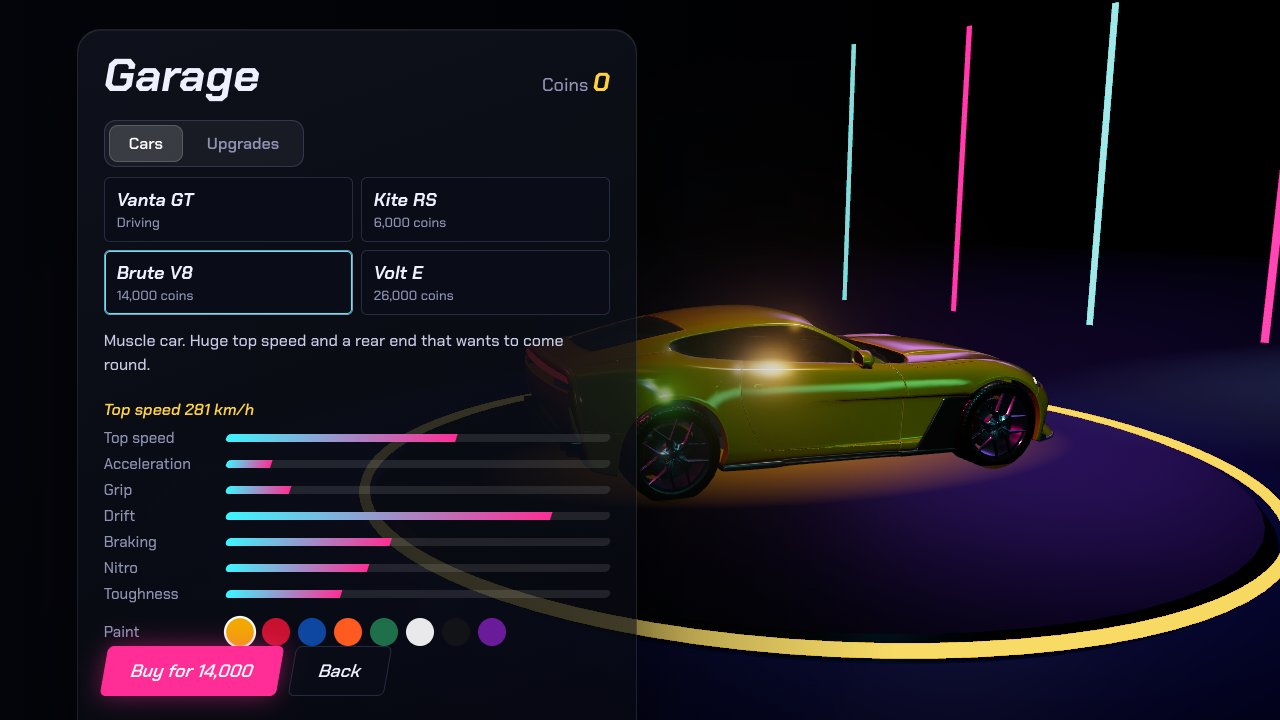
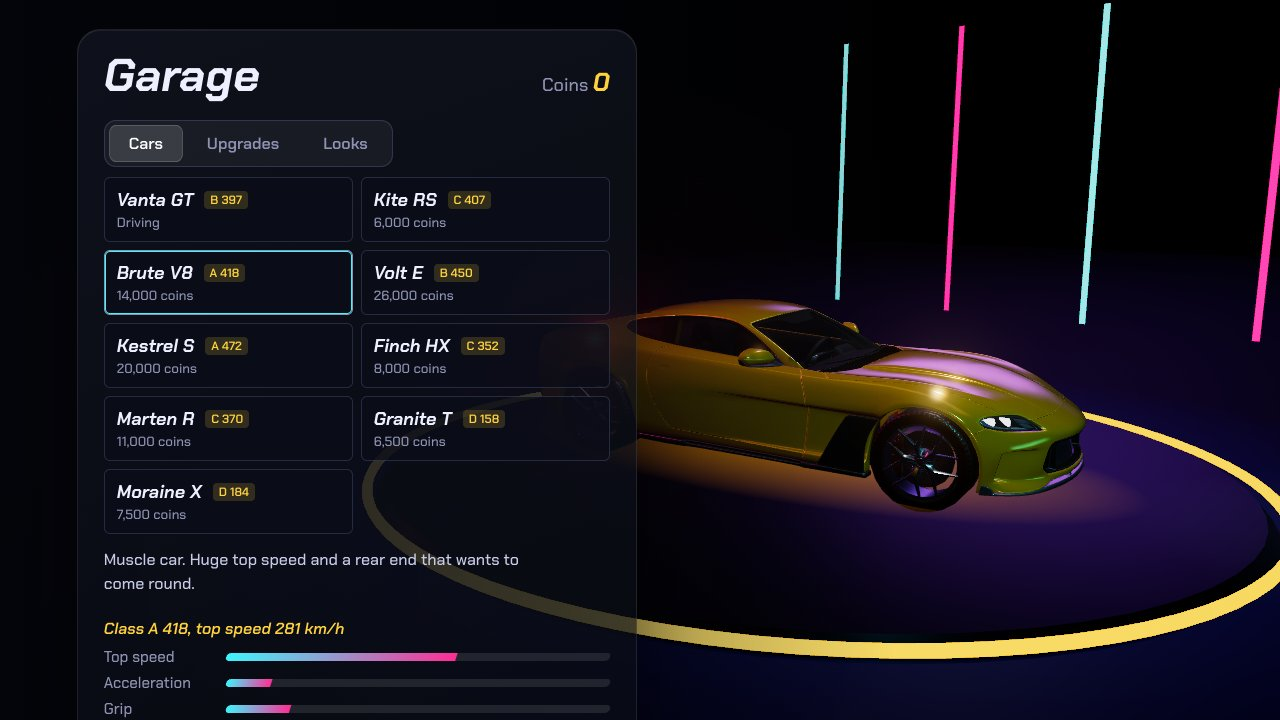
Two new guides, and the site caught up with today's updates (#33)
* Two new guides, and the site caught up with today's updates

New pages, aimed at searches the game now answers:
- leaderboards.html: where the time-trial boards are, how the server
  checks a lap before it counts, racing a ghost from a board, how long
  ghosts are kept, and ways to get faster.
- customise.html: every look with its price, what the wrap painter
  does, photo mode, and the four tuning sliders and what they need.
cars.html's tuning and looks sections now give a summary and link
there. Both pages are in the nav on every guide page, the updates page,
the menu's guide links and the sitemap.

how-to-play.html explains Auto, High and Low graphics. The time trial on
modes.html points to the boards. The about page lists the leaderboards,
ghosts, nine cars, tuning, looks, photo mode and the daily challenge,
and its multiplayer answer mentions ghosts. The JSON-LD description now
names the crews, playing the cop, nine cars with tuning and
customisation, and checked leaderboards with ghosts. The README gains
repairs, slipstream, kerb rumble and Auto graphics.

The garage picture is retaken with the nine cars, their classes and
ratings, and there is a new one of the Looks tab with a wrap layer.

* Friends and challenges on the guides, the about page and in the README

#28 landed while this was open. The leaderboards page now explains
friends, the rivals feed and challenges, and the fuller rule for which
[…]

diff --git a/public/customise.html b/public/customise.html
@@ -1,0 +1,104 @@
+<!doctype html>
+<html lang="en">
+  <head>
+    <meta charset="utf-8" />
+    <meta name="viewport" content="width=device-width, initial-scale=1" />
+    <title>Car customisation and tuning in Skidline: wraps, wheels, liveries and sliders</title>
+    <meta name="description" content="Customise your car in Skidline, a free browser racing game: paint and finishes, underglow, liveries, wheels, ride height, tint, spoilers, a free wrap painter, a photo mode and four tuning sliders, with every price in coins." />
+    <link rel="canonical" href="https://skidline.edward7780.com/customise.html" />
+    <meta property="og:type" content="article" />
+    <meta property="og:site_name" content="Skidline" />
+    <meta property="og:url" content="https://skidline.edward7780.com/customise.html" />
+    <meta property="og:title" content="Car customisation and tuning in Skidline" />
+    <meta property="og:description" content="Customise your car in Skidline, a free browser racing game: paint and finishes, underglow, liveries, wheels, ride height, tint, spoilers, a free wrap painter, a photo mode and four tuning sliders, with every price in coins." />
+    <meta property="og:image" content="https://skidline.edward7780.com/og.jpg" />
+    <meta name="twitter:card" content="summary_large_image" />
+    <meta name="theme-color" content="#07080e" />
+    <link rel="icon" type="image/svg+xml" href="/favicon.svg" />
+    <link rel="stylesheet" href="/pages.css" />
+  </head>
+  <body>
+    <header class="top">
+      <nav aria-label="Site">
+        <a class="brand" href="/">Skid<span>line</span></a>
+        <a href="/how-to-play.html">How to play</a>
+        <a href="/cars.html">Cars</a>
+        <a href="/customise.html" aria-current="page">Customise</a>
+        <a href="/modes.html">Modes</a>
+        <a href="/leaderboards.html">Leaderboards</a>
+        <a href="/drift-guide.html">Drifting</a>
+        <a href="/police-chase.html">Police chases</a>
+        <a href="/coins.html">Coins</a>
+        <a href="/updates.html">Updates</a>
+        <a href="/about.html">About</a>
+        <a class="go" href="/">Play free</a>
+      </nav>
+    </header>
+    <main>
+      <h1>Car customisation and tuning in Skidline</h1>
+      <p class="lead">Every car in Skidline can be painted, dressed up and tuned in the garage. Paint colours and the wrap painter are free. Finishes, underglow, liveries, wheels, ride height, tint and spoilers cost coins, and each is bought once and then works on every car you own. The tuning sliders are free too, and change how the car drives.</p>
+      <a class="play" href="/">Open the garage</a>
+      <figure>
+        <img src="/screens/looks.jpg" width="960" height="540" alt="The garage's Looks tab: wheels, ride height, window tint and spoiler options with their prices, and a wrap layer with its colours and sliders, laid on the side of the car on the turntable" />
+        <figcaption>The Looks tab, with a stripe from the wrap painter on the car.</figcaption>
+      </figure>
+
+      <h2 id="looks">Looks</h2>
+      <p>Open the Garage and switch to the Looks tab. You can try anything on the car on the turntable before you buy it, and a look you have bought is free on every other car you own. None of the looks changes the physics: a spoiler or lowered ride is for the eye only.</p>
+      <div class="table">
+        <table>
+          <thead><tr><th scope="col">Look</th><th scope="col">Choices and their price in coins</th></tr></thead>
+          <tbody>
+            <tr><th scope="row">Paint</th><td>Eight colours, all free</td></tr>
+            <tr><th scope="row">Finish</th><td>Gloss free; matte 1,500; pearl 3,000; chrome 6,000</td></tr>
+            <tr><th scope="row">Underglow</th><td>Matching the paint, or off, free; cyan, pink, green, orange or white, 1,500 each</td></tr>
+            <tr><th scope="row">Livery</th><td>Twin stripes 2,000; centre stripe 2,000; side flash 2,500; chequer band 2,500; race number 3,000</td></tr>
+            <tr><th scope="row">Wheels</th><td>Split five 2,000; mesh 2,500; turbine 2,500; deep dish 3,000</td></tr>
+            <tr><th scope="row">Ride height</th><td>Lowered 1,000; slammed 2,000</td></tr>
+            <tr><th scope="row">Window tint</th><td>Dark 800; limo 1,500</td></tr>
+            <tr><th scope="row">Spoiler</th><td>Ducktail lip 1,500; GT wing 3,500</td></tr>
+          </tbody>
+        </table>
+      </div>
+      <p>A livery comes in white, black, red, yellow or cyan, and you can change its colour and the race number at any time for free. Your car's number plates carry your username when you are signed in. New wheels replace the whole wheel, tyre included, at the size of the one they replace. Tint darkens only the windows, so the headlights stay clear.</p>
+
+      <h2 id="wrap">The wrap painter</h2>
+      <p>At the bottom of the Looks tab is the wrap painter, which costs nothing. A wrap is built from up to six layers, drawn in order on top of the livery. For each layer you pick:</p>
+      <ul>
+        <li>a shape: a stripe, a circle, a star, a chevron, or your own text of up to 12 characters;</li>
+        <li>where it goes: both sides, the left or right side only, the bonnet or the roof;</li>
+        <li>one of nine colours;</li>
+        <li>its size, where it sits along the car and how high (or across the top, on the bonnet and roof), and a turn of up to 45 degrees either way.</li>
+      </ul>
+      <p>The sliders show the change on the car as you move them, and letting go keeps it. The wrap is saved with that car, and goes with your save to every device if you are signed in.</p>
+
+      <h2 id="photo">Photo mode</h2>
+      <p>The garage's Photo button hides the menu and stops the turntable. Drag to turn the camera round your car, and zoom with the mouse wheel or a pinch. Save picture downloads a PNG of the view with your car's name and the game's in a corner. Escape or Done brings the garage back.</p>
+
+      <h2 id="tuning">Tuning sliders</h2>
+      <p>The Upgrades tab has four sliders under the eight upgrade parts. They are free to move on any car you own, they are kept with that car, and each stays within a small range, so a setup changes how a car feels without turning it into another car. Moving a slider shows its effect on the car's bars; letting go keeps it, and Reset tuning puts them all back in the middle.</p>
+      <div class="table">
+        <table>
+          <thead><tr><th scope="col">Slider</th><th scope="col">Opens with</th><th scope="col">What it does</th></tr></thead>
+          <tbody>
+            <tr><th scope="row">Gearing</th><td>A gearbox stage</td><td>Shorter gears pull up to 8% harder; longer ones add up to 4% to the top speed. You trade one for the other.</td></tr>
+            <tr><th scope="row">Brake balance</th><td>A brakes stage</td><td>Toward the rear the car swings into a drift more easily and stops a little later; toward the front it stays planted.</td></tr>
+            <tr><th scope="row">Camber</th><td>A suspension stage</td><td>Down to −3°, the car corners up to 5% harder but brakes up to 5% worse in a straight line.</td></tr>
+            <tr><th scope="row">Steering lock</th><td>From the start</td><td>More lock turns up to 10% tighter and quicker, but makes the car twitchier.</td></tr>
+          </tbody>
+        </table>
+      </div>
+      <p>Tuning counts on the leaderboards: a time-trial lap is checked with the car's upgrades and tuning as you drove it. More on the <a href="/leaderboards.html">leaderboards page</a>.</p>
+
+      <h2 id="more">More in the garage</h2>
+      <p>The upgrade parts themselves (engine, gearbox, nitro, tyres, brakes, suspension, weight and armour, three stages each), every car's top speed with each engine stage, and the S to D classes are on the <a href="/cars.html">cars page</a>. Coins for all of it come from every race; the <a href="/coins.html">coins page</a> lists what pays.</p>
+      <figure>
+        <img src="/screens/garage.jpg" width="960" height="540" loading="lazy" alt="The garage's Cars tab: the nine cars with their class and rating, and the Brute V8 on a turntable under neon" />
+      </figure>
+
+      <footer>
+        <a href="/">Play Skidline</a> · <a href="/about.html">About</a> · <a href="/privacy.html">Privacy</a> · <a href="/terms.html">Terms</a> · © 2026 Ravi Kumar Gupta. All rights reserved.
+      </footer>
+    </main>
+  </body>
+</html>

diff --git a/public/leaderboards.html b/public/leaderboards.html
@@ -1,0 +1,77 @@
+<!doctype html>
+<html lang="en">
+  <head>
+    <meta charset="utf-8" />
+    <meta name="viewport" content="width=device-width, initial-scale=1" />
+    <title>Time trial leaderboards and ghost racing in Skidline, a free browser racing game</title>
+    <meta name="description" content="How Skidline's time-trial leaderboards work: a board for every track, laps checked by the server before they count, racing other drivers' ghosts in your browser, and friends and challenges." />
+    <link rel="canonical" href="https://skidline.edward7780.com/leaderboards.html" />
+    <meta property="og:type" content="article" />
+    <meta property="og:site_name" content="Skidline" />
+    <meta property="og:url" content="https://skidline.edward7780.com/leaderboards.html" />
+    <meta property="og:title" content="Time trial leaderboards and ghost racing in Skidline" />
+    <meta property="og:description" content="How Skidline's time-trial leaderboards work: a board for every track, laps checked by the server before they count, racing other drivers' ghosts in your browser, and friends and challenges." />
+    <meta property="og:image" content="https://skidline.edward7780.com/og.jpg" />
+    <meta name="twitter:card" content="summary_large_image" />
+    <meta name="theme-color" content="#07080e" />
+    <link rel="icon" type="image/svg+xml" href="/favicon.svg" />
+    <link rel="stylesheet" href="/pages.css" />
+  </head>
+  <body>
+    <header class="top">
+      <nav aria-label="Site">
+        <a class="brand" href="/">Skid<span>line</span></a>
+        <a href="/how-to-play.html">How to play</a>
+        <a href="/cars.html">Cars</a>
+        <a href="/customise.html">Customise</a>
+        <a href="/modes.html">Modes</a>
+        <a href="/leaderboards.html" aria-current="page">Leaderboards</a>
+        <a href="/drift-guide.html">Drifting</a>
+        <a href="/police-chase.html">Police chases</a>
+        <a href="/coins.html">Coins</a>
+        <a href="/updates.html">Updates</a>
+        <a href="/about.html">About</a>
+        <a class="go" href="/">Play free</a>
+      </nav>
+    </header>
+    <main>
+      <h1>Time trial leaderboards and ghost racing</h1>
+      <p class="lead">Every track in Skidline has a leaderboard of the fastest time-trial laps. A lap only goes on it after the game's server has driven it again itself, so the times are real. Laps on a board can be raced as ghosts, right in your browser, and friends can send each other laps to beat.</p>
+      <a class="play" href="/">Set a lap</a>
+      <figure>
+        <img src="/screens/day.jpg" width="960" height="540" alt="A gold hypercar leading rivals along the mountain road by day, between steel guard rails" />
+        <figcaption>Time trials run on the same generated tracks as every other event.</figcaption>
+      </figure>
+
+      <h2 id="boards">Where the boards are</h2>
+      <p>The menu has a Fastest laps card with two boards: today's track, which is new every day and the same for every player, and this week's track, new every Monday (UTC). Each shows the top ten, how many drivers have set a lap, and your own place if you are further down. After any time trial, the results screen shows the board for that track, so random tracks and the career's time trial have boards too.</p>
+      <p>To set a lap, pick Time trial on the Quick race screen and choose the track. You drive alone against a ghost of your own best lap. Each board keeps your best lap on that track; a slower one leaves it as it was.</p>
+
+      <h2 id="checked">How a lap is checked</h2>
+      <p>While you drive a time trial, the game writes down what you pressed on every step of the physics, 120 a second, along with your car, its upgrades and tuning, and any damage it started with. When you finish signed in, it sends that to the server. The server starts the same track from the grid and drives it again with your inputs, through the same simulation as the game. The lap it times itself is the one that goes on the board.</p>
+      <p>Browsers can differ in the last digit of the maths the physics uses, so the server accepts a lap if its own time is within a tenth of a second, or 1% of the lap, of the time you saw. A lap it can't match isn't counted, and the results screen says why. You can race signed out, but only laps by signed-in players with a username go on the boards.</p>
+      <p>When the handling changes in an update, the boards start again empty, since a lap from the old physics wouldn't be a fair comparison.</p>
+
+      <h2 id="ghosts">Racing a ghost</h2>
+      <p>A lap on a board with a Race button next to it can be raced as a ghost. Press it and the game downloads that driver's lap, drives it again in your browser with the same replay the server used, and starts a time trial on that track with their car on the road beside you, drawn see-through in its own shape. The ghost row on the race screen shows their time and name. Your own best lap on the track still saves when you beat your own time.</p>
+      <p>Ghosts take room, so the game keeps them for the laps people are most likely to race: those in a board's top ten, laps by a driver whom someone with a lap on the same track has added as a friend, and laps in a challenge. A daily track's ghosts go after 7 days and a weekly track's after 5 weeks. The times stay on the boards; only the Race button goes.</p>
+
+      <h2 id="friends">Friends and challenges</h2>
+      <p>Signed in, open Friends from the menu and add drivers by their username. Adding someone doesn't need their yes, but they see that you added them, so they can add you back. When a friend's lap beats yours on a board, the menu's card shows it under Rivals for 14 days, with a button to race their ghost or, if it isn't kept, their track.</p>
+      <p>Once two of you have added each other, you can challenge one another. After a checked time-trial lap, the results screen has Challenge a friend: pick one and send them that track with your best time. It waits on their Friends screen with Race and Dismiss, until they dismiss it or for 30 days. You can send up to 30 challenges a day. The <a href="/privacy.html">privacy page</a> says what is stored.</p>
+
+      <h2 id="faster">Getting faster</h2>
+      <ul>
+        <li>Start every lap well: put the throttle down in the last 0.45 seconds before the green light for a <a href="/how-to-play.html#start">perfect start</a> and 30% more nitro.</li>
+        <li>Drift through slow corners. A held slide <a href="/drift-guide.html#boost">charges a boost</a> and fills the nitro tank.</li>
+        <li>Race the ghost of the lap just above yours, and watch where it brakes and turns in.</li>
+        <li>Try the <a href="/customise.html#tuning">tuning sliders</a>: longer gearing for a track with long straights, more steering lock for a twisty one.</li>
+        <li>Pick the right car. The <a href="/cars.html">cars page</a> lists every car's top speed and class.</li>
+      </ul>
+
+      <footer>
+        <a href="/">Play Skidline</a> · <a href="/about.html">About</a> · <a href="/privacy.html">Privacy</a> · <a href="/terms.html">Terms</a> · © 2026 Ravi Kumar Gupta. All rights reserved.
+      </footer>
+    </main>
+  </body>
+</html>

diff --git a/public/cars.html b/public/cars.html
@@ -23,7 +23,9 @@
         <a class="brand" href="/">Skid<span>line</span></a>
         <a href="/how-to-play.html">How to play</a>
         <a href="/cars.html" aria-current="page">Cars</a>
+        <a href="/customise.html">Customise</a>
         <a href="/modes.html">Modes</a>
+        <a href="/leaderboards.html">Leaderboards</a>
         <a href="/drift-guide.html">Drifting</a>
         <a href="/police-chase.html">Police chases</a>
         <a href="/coins.html">Coins</a>
@@ -36,7 +38,7 @@
       <h1>Cars and upgrades in Skidline</h1>
       <p class="lead">There are nine cars, each with its own handling and engine sound. You start with the Vanta GT and buy the other eight with coins from races. Every car takes eight upgrade parts with three stages each, and a stage changes the numbers the physics runs on, so an upgraded car really is quicker on the road.</p>
       <figure>
-        <img src="/screens/garage.jpg" width="960" height="540" alt="The garage with the Brute V8 on a turntable, its stat bars and the paint colours" />
+        <img src="/screens/garage.jpg" width="960" height="540" alt="The garage's Cars tab: the nine cars with their class and rating, and the Brute V8 on a turntable under neon, class A 418 with a top speed of 281 km/h" />
         <figcaption>The garage, where you buy cars, pick a paint colour and fit upgrades.</figcaption>
       </figure>
 
@@ -100,20 +102,14 @@
       <p>Coins come from every race. The <a href="/coins.html">coins page</a> lists what pays and how much.</p>
 
       <h2 id="tuning">Tuning</h2>
-      <p>Under the parts on the Upgrades tab are four sliders, free to move on a car you own and kept with that car. Each stays within a small range, so a setup changes how the car feels without turning it into a different car. Let go of a slider to keep it; Reset tuning puts them all back in the middle.</p>
-      <ul>
-        <li>Gearing, once the car has a gearbox stage: shorter gears pull up to 8% harder, longer ones add up to 4% to the top speed, and you trade one for the other.</li>
-        <li>Brake balance, once it has a brakes stage: toward the rear the car swings into a drift more easily and stops a little later; toward the front it stays planted.</li>
-        <li>Camber, once it has a suspension stage: down to −3°, the car corners up to 5% harder but brakes up to 5% worse in a straight line.</li>
-        <li>Steering lock, from the start: more lock turns up to 10% tighter and quicker, but the car gets twitchier.</li>
-      </ul>
+      <p>Under the parts on the Upgrades tab are four free sliders, kept with each car: gearing (pull against top speed), brake balance, camber and steering lock. Gearing, brake balance and camber open with a gearbox, brakes or suspension stage. What each one does, and by how much, is on the <a href="/customise.html#tuning">customisation page</a>.</p>
 
       <h2 id="classes">Classes and rating</h2>
       <p>Every car has a class from its top speed, with its upgrades counted: S from 295 km/h, A from 270, B from 245, C from 220 and D below that. Stock, the Brute V8 is class A, the Vanta GT and the Volt E are B, and the Kite RS is C. Upgrades can lift a car a class: a stage 3 engine takes the Vanta GT to 290 km/h and class A, the Kite RS to 266 km/h and class B, and the Brute V8 to 314 km/h and class S.</p>
       <p>Next to the class the garage shows a rating from 100 to 999. It weighs top speed most, then pull and grip, then braking, and every upgrade that touches those raises it.</p>
 
       <h2 id="looks">Looks</h2>
-      <p>The garage's Looks tab has paint finishes (gloss, matte, pearl and chrome), underglow colours, and liveries: stripes, a side flash, a chequered band or race numbers, in white, black, red, yellow or cyan, plus wheels, ride height, window tint and a spoiler. Your car's number plates show your username. The wrap painter, at the bottom of the Looks tab, is free: add up to six layers of stripes, circles, stars, chevrons or your own text, pick a colour and where each one goes, and move, size and turn it with the sliders. Try one on the turntable before you buy it. The garage's Photo button hides the menu so you can turn the camera round your car, zoom, and save a picture of it. A look is bought once and then works on every car you own. Prices are on the <a href="/coins.html#spend">coins page</a>.</p>
+      <p>The Looks tab has paint finishes, underglow, liveries, wheels, ride height, window tint and spoilers, each bought once and then free on every car you own, plus a free wrap painter for up to six layers of stripes, shapes and text. The garage's Photo button lets you turn the camera round your car and save a picture. Every option and price is on the <a href="/customise.html">customisation page</a>. Looks don't change the physics.</p>
 
       <h2 id="credits">Car models</h2>
       <p class="note">The Vanta GT and Volt E use <a href="https://sketchfab.com/3d-models/fictional-supercar-v12-goblin-0a20e49ad5774d778567cb5c3f345786" rel="noreferrer">V12 Goblin</a> by ollitei, the Kite RS <a href="https://sketchfab.com/3d-models/generic-coupe-azura-2e1a3699de7e4f688d328dc005ef1aac" rel="noreferrer">Generic Coupe "Azura"</a> by mk2design, and the Brute V8 <a href="https://sketchfab.com/3d-models/generic-sport-coupe-car-820a13c4831c41959ce75e6c2014e882" rel="noreferrer">Generic Sport Coupé</a> by MMC Works. Traffic and patrol cars come from the <a href="https://sketchfab.com/3d-models/generic-passenger-car-pack-20f9af9b8a404d5cb022ac6fe87f21f5" rel="noreferrer">Generic passenger car pack</a> by Comrade1280. All are CC BY 4.0, from Sketchfab.</p>

diff --git a/public/about.html b/public/about.html
@@ -18,7 +18,9 @@
         <a class="brand" href="/">Skid<span>line</span></a>
         <a href="/how-to-play.html">How to play</a>
         <a href="/cars.html">Cars</a>
+        <a href="/customise.html">Customise</a>
         <a href="/modes.html">Modes</a>
+        <a href="/leaderboards.html">Leaderboards</a>
         <a href="/drift-guide.html">Drifting</a>
         <a href="/police-chase.html">Police chases</a>
         <a href="/coins.html">Coins</a>
@@ -44,8 +46,11 @@
         <li>Play a career of twelve events across three tiers, earning coins to buy, paint and upgrade new cars.</li>
         <li>Earn coins in every race for wins, near misses, drifts and clean laps, and spend them on eight upgrade parts per car, each with three stages.</li>
         <li>Race five AI rivals that drive a racing line worked out for each track.</li>
-        <li>Play elimination races, drift events with a points target, police pursuits and time trials against your own ghost.</li>
-        <li>Race a new track every day, the same for every player, or share a random track by link.</li>
+        <li>Play elimination races, drift events with a points target, police pursuits and time trials against your own ghost, or play the cop.</li>
+        <li>Set time-trial laps for a leaderboard on every track, checked by the server, and race other drivers' ghosts from the board.</li>
+        <li>Add friends by username, see when they beat your laps, and send each other laps to beat as challenges.</li>
+        <li>Drive nine cars, tune them with four sliders, and make them your own with finishes, underglow, liveries, wheels, ride height, tint, spoilers and a free wrap painter, then take a picture in the garage's photo mode.</li>
+        <li>Race a new track every day and every week, the same for every player, with a daily challenge, or share a random track by link.</li>
         <li>Crash and see the bodywork dent where you hit; badly damaged cars lose power, smoke and burn.</li>
         <li>Switch between six cameras, including a cockpit view with a working steering wheel.</li>
         <li>Choose a sunny mountain road or a city at night in clear weather, rain or at dusk.</li>
@@ -55,6 +60,8 @@
       <ul>
         <li><a href="/how-to-play.html">How to play</a>: keyboard, gamepad and phone controls, nitro, near misses and cameras.</li>
         <li><a href="/modes.html">Game modes and the career</a>: race, elimination, drift, pursuit, time trial and all twelve career events.</li>
+        <li><a href="/cars.html">Cars and upgrades</a>, and <a href="/customise.html">customisation and tuning</a>: looks, the wrap painter, photo mode and the tuning sliders.</li>
+        <li><a href="/leaderboards.html">Leaderboards and ghosts</a>: how laps are checked, how to race other drivers' ghosts, and friends and challenges.</li>
         <li><a href="/drift-guide.html">How to drift</a> and <a href="/police-chase.html">how to escape the police</a>.</li>
         <li><a href="/coins.html">Coins</a>: what every race pays, and <a href="/updates.html">updates</a>: what is new.</li>
       </ul>
@@ -75,7 +82,7 @@
         <dt>How is my progress saved?</dt>
         <dd>In your browser automatically. Sign in with Google, then pick a username and password, to keep your coins, cars, upgrades and career on every device.</dd>
         <dt>Is there multiplayer?</dt>
-        <dd>Not yet. Every race is against the computer, the police or your own ghost.</dd>
+        <dd>Not live racing yet. Every race is against the computer or the police, but on the time-trial leaderboards you can race other players' ghosts, compare checked lap times and challenge your friends.</dd>
       </dl>
 
       <h2>Who made it</h2>

diff --git a/index.html b/index.html
@@ -52,7 +52,7 @@
         "name": "Skidline",
         "url": "https://skidline.edward7780.com/",
         "image": "https://skidline.edward7780.com/og.jpg",
-        "description": "A free 3D web racing game you play in the browser: a career, AI rivals on a computed racing line, police pursuits, drift and elimination events, crash damage, a cockpit camera, and a mountain road by day or a neon city at night.",
+        "description": "A free 3D web racing game you play in the browser: a career against three street crews, AI rivals on a computed racing line, police pursuits and playing the cop, drift and elimination events, nine cars with upgrades, tuning and customisation, time-trial leaderboards checked by the server with ghosts to race, friends and challenges, crash damage, a cockpit camera, and a mountain road by day or a neon city at night.",
         "genre": ["Racing", "Driving"],
         "gamePlatform": ["Web browser", "PC", "Mobile"],
         "applicationCategory": "GameApplication",
@@ -70,6 +70,7 @@
           "https://skidline.edward7780.com/screens/nitro.jpg",
           "https://skidline.edward7780.com/screens/damage.jpg",
           "https://skidline.edward7780.com/screens/garage.jpg",
+          "https://skidline.edward7780.com/screens/looks.jpg",
           "https://skidline.edward7780.com/screens/drift.jpg",
           "https://skidline.edward7780.com/screens/career.jpg"
         ],
@@ -208,7 +209,9 @@
         <nav class="guides" aria-label="Guides">
           <a href="/how-to-play.html">How to play</a>
           <a href="/cars.html">Cars</a>
+          <a href="/customise.html">Customise</a>
           <a href="/modes.html">Modes</a>
+          <a href="/leaderboards.html">Leaderboards</a>
           <a href="/drift-guide.html">Drifting</a>
           <a href="/police-chase.html">Police chases</a>
           <a href="/coins.html">Coins</a>
@@ -548,6 +551,7 @@
         <a href="/how-to-play.html">How to play</a>
         <a href="/cars.html">Cars</a>
         <a href="/modes.html">Modes</a>
+        <a href="/leaderboards.html">Leaderboards</a>
         <a href="/drift-guide.html">Drifting</a>
         <a href="/police-chase.html">Police chases</a>
         <a href="/coins.html">Coins</a>

diff --git a/public/how-to-play.html b/public/how-to-play.html
@@ -23,7 +23,9 @@
         <a class="brand" href="/">Skid<span>line</span></a>
         <a href="/how-to-play.html" aria-current="page">How to play</a>
         <a href="/cars.html">Cars</a>
+        <a href="/customise.html">Customise</a>
         <a href="/modes.html">Modes</a>
+        <a href="/leaderboards.html">Leaderboards</a>
         <a href="/drift-guide.html">Drifting</a>
         <a href="/police-chase.html">Police chases</a>
         <a href="/coins.html">Coins</a>
@@ -129,6 +131,9 @@
         <li>Braking assist, off by default, brakes for you when the car is more than 8% faster than the racing line's speed about a second ahead.</li>
         <li>Stability, on by default. Turn it off to drive on the raw tyre model.</li>
       </ul>
+
+      <h2 id="graphics">Graphics: Auto, High and Low</h2>
+      <p>Settings has three graphics choices. Auto, the default, times the first seconds of each race. If the game runs slower than 40 frames a second it drops from High to Low, and if Low still runs below 28 frames a second it draws the picture at 85% and then 70% of its size. Auto only ever steps down, remembers what it picked for your device, and Settings says what that was. Pick High or Low to set it yourself. Low, which phones start on, also loads half-size photos for the road, rocks and ground, about 360 KB instead of 5.2 MB, so it is quicker to download.</p>
 
       <h2 id="saving">Saving your progress</h2>
       <p>Coins, cars, upgrades and career progress are saved in your browser as you play. To keep them on every device, open Account from the menu and sign in with Google, then pick a username and password for signing in elsewhere.</p>

diff --git a/public/modes.html b/public/modes.html
@@ -23,7 +23,9 @@
         <a class="brand" href="/">Skid<span>line</span></a>
         <a href="/how-to-play.html">How to play</a>
         <a href="/cars.html">Cars</a>
+        <a href="/customise.html">Customise</a>
         <a href="/modes.html" aria-current="page">Modes</a>
+        <a href="/leaderboards.html">Leaderboards</a>
         <a href="/drift-guide.html">Drifting</a>
         <a href="/police-chase.html">Police chases</a>
         <a href="/coins.html">Coins</a>
@@ -55,6 +57,7 @@
 
       <h2 id="time-trial">Time trial</h2>
       <p>On your own against a ghost of your best lap on the track. In a quick race the target is a lap within 12% of the reference lap, the time the computed racing line plans for that track.</p>
+      <p>Every track has a leaderboard of time-trial laps, checked by the server before they count, and any lap on it with a Race button can be raced as a ghost. Today's and this week's boards are on the menu. See <a href="/leaderboards.html">leaderboards and ghosts</a>.</p>
 
       <h2 id="quick-race">Quick race options</h2>
       <ul>

diff --git a/public/coins.html b/public/coins.html
@@ -23,7 +23,9 @@
         <a class="brand" href="/">Skid<span>line</span></a>
         <a href="/how-to-play.html">How to play</a>
         <a href="/cars.html">Cars</a>
+        <a href="/customise.html">Customise</a>
         <a href="/modes.html">Modes</a>
+        <a href="/leaderboards.html">Leaderboards</a>
         <a href="/drift-guide.html">Drifting</a>
         <a href="/police-chase.html">Police chases</a>
         <a href="/coins.html" aria-current="page">Coins</a>

diff --git a/public/drift-guide.html b/public/drift-guide.html
@@ -23,7 +23,9 @@
         <a class="brand" href="/">Skid<span>line</span></a>
         <a href="/how-to-play.html">How to play</a>
         <a href="/cars.html">Cars</a>
+        <a href="/customise.html">Customise</a>
         <a href="/modes.html">Modes</a>
+        <a href="/leaderboards.html">Leaderboards</a>
         <a href="/drift-guide.html" aria-current="page">Drifting</a>
         <a href="/police-chase.html">Police chases</a>
         <a href="/coins.html">Coins</a>

diff --git a/public/police-chase.html b/public/police-chase.html
@@ -23,7 +23,9 @@
         <a class="brand" href="/">Skid<span>line</span></a>
         <a href="/how-to-play.html">How to play</a>
         <a href="/cars.html">Cars</a>
+        <a href="/customise.html">Customise</a>
         <a href="/modes.html">Modes</a>
+        <a href="/leaderboards.html">Leaderboards</a>
         <a href="/drift-guide.html">Drifting</a>
         <a href="/police-chase.html" aria-current="page">Police chases</a>
         <a href="/coins.html">Coins</a>

diff --git a/scripts/updates.template.html b/scripts/updates.template.html
@@ -23,7 +23,9 @@
         <a class="brand" href="/">Skid<span>line</span></a>
         <a href="/how-to-play.html">How to play</a>
         <a href="/cars.html">Cars</a>
+        <a href="/customise.html">Customise</a>
         <a href="/modes.html">Modes</a>
+        <a href="/leaderboards.html">Leaderboards</a>
         <a href="/drift-guide.html">Drifting</a>
         <a href="/police-chase.html">Police chases</a>
         <a href="/coins.html">Coins</a>

diff --git a/changes/2026-11-21/1511-two-new-guides.html b/changes/2026-11-21/1511-two-new-guides.html
@@ -1,0 +1,1 @@
+<li>Two new guides: <a href="/leaderboards.html">leaderboards and ghosts</a>, on how time-trial laps are checked and how to race other drivers' ghosts, and <a href="/customise.html">customisation and tuning</a>, with every look and its price, the wrap painter, photo mode and what each tuning slider does. The how-to-play, modes and about pages and the garage pictures are up to date with today's updates.</li>
